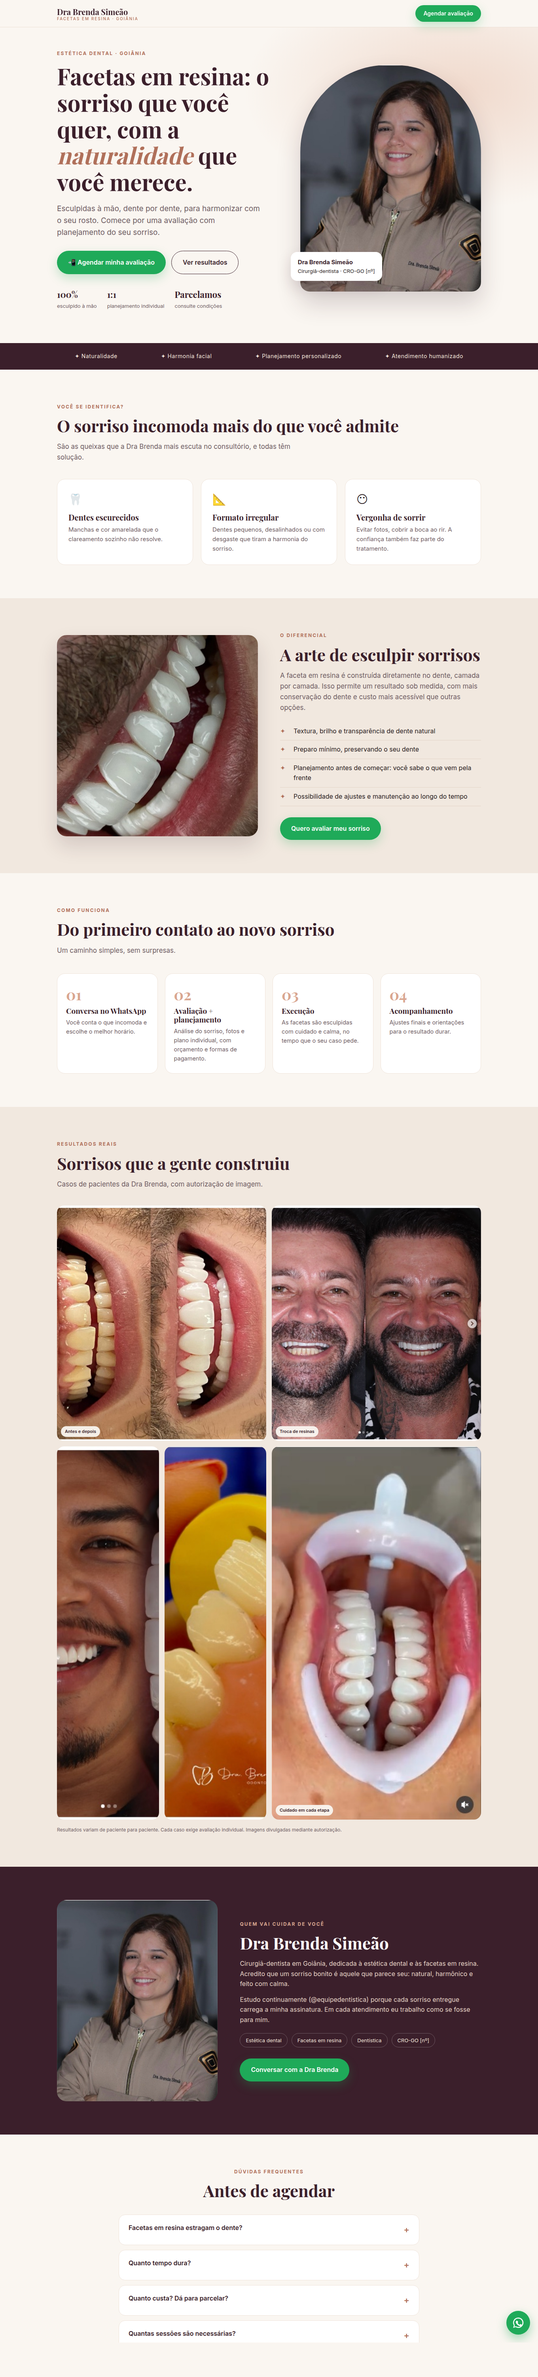
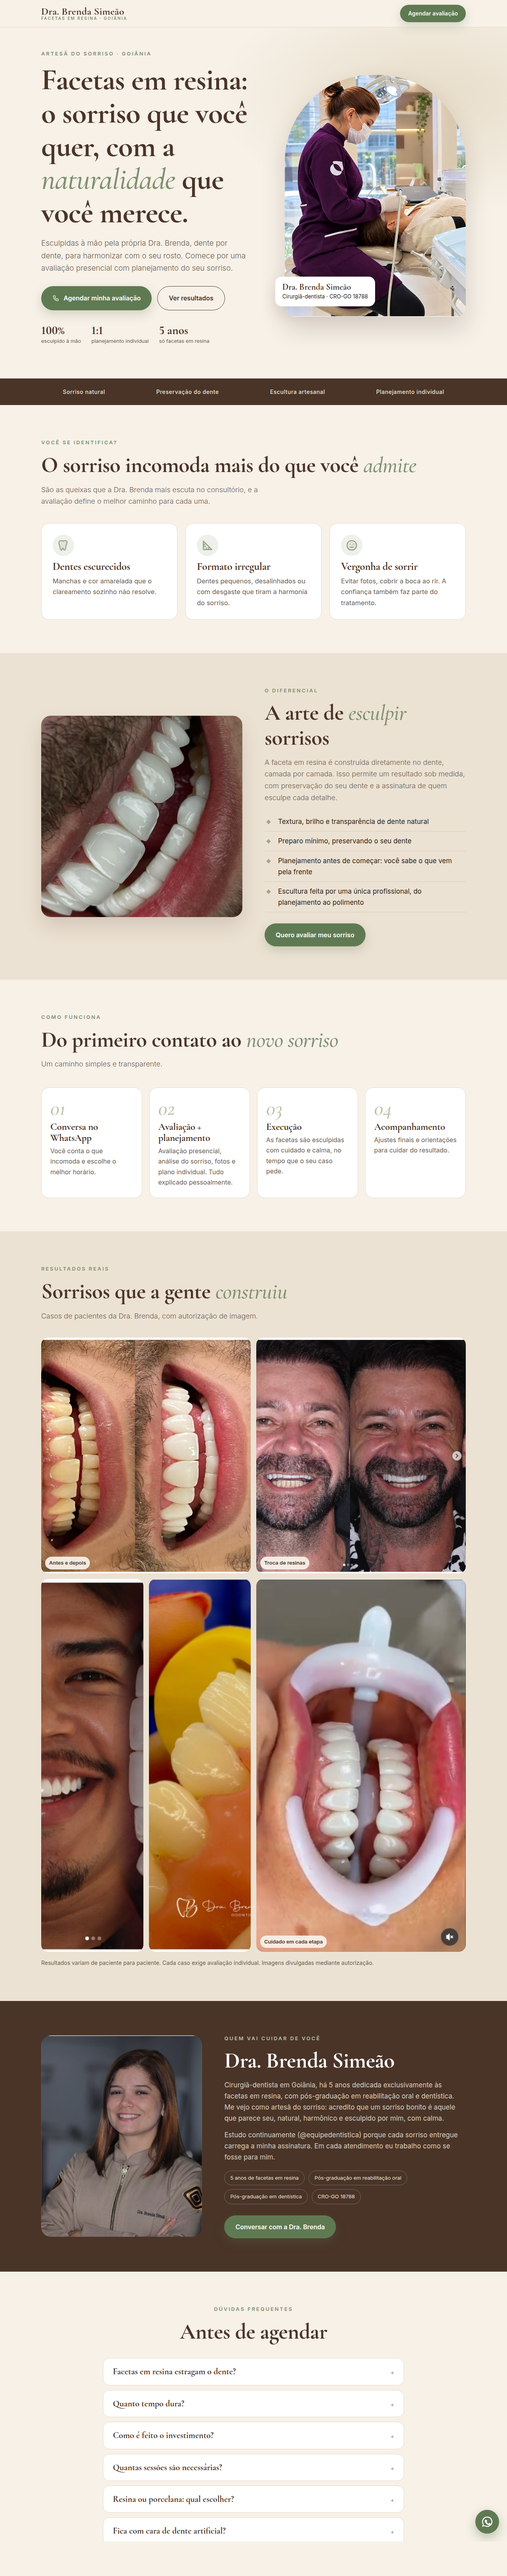
EXP-30: Interface Odontologia no endereco e rodape (constante unica), secao de avaliacoes com QR local, revisao CFO/CRO-GO

Changed region(s): [[0.0, 0.0, 1.0, 0.9973], [0.9375, 0.9662, 1.0, 0.9973]]

diff --git a/lp/index.html b/lp/index.html
@@ -3,6 +3,10 @@
 <meta name="description" content="Facetas em resina esculpidas à mão para um sorriso natural e harmônico. Agende sua avaliação com a Dra. Brenda Simeão em Goiânia.">
 <!-- TRACKING: preencher PIXEL_ID e CAPI_ENDPOINT na publicação. Spec em ../tracking.md e ../dossie-estrategico-funil.md (seção 4) -->
 <script>
+// LOCAL_NOME: nome do local de atendimento, divulgado com autorizacao da Dra. (28/10/2026), "por enquanto". Trocar SO aqui.
+window.LOCAL_NOME="Interface Odontologia";
+// GOOGLE_REVIEWS_URL: link de avaliacoes do Google Meu Negocio (preencher quando houver acesso; depois rodar tools/gen-qr.py com o mesmo link)
+window.GOOGLE_REVIEWS_URL="";
 window.PIXEL_ID="";window.CAPI_ENDPOINT="";// PIXEL_ID: id do Pixel (so numeros). CAPI_ENDPOINT: URL https do endpoint server-side (ver tracking.md)
 window.eid=()=>"e"+Date.now().toString(36)+Math.random().toString(36).slice(2,8);
 // Atribuicao: utm_*, fbclid, fbc, fbp e ref (codigo curto) guardados por sessao; nada de dado de saude
@@ -73,14 +77,14 @@ footer{background:#2a211a;color:#c9baa6;font-size:14px;padding:34px 0;text-align
 
 <div class="strip"><div class="w"><span>Sorriso natural</span><span>Preservação do dente</span><span>Escultura artesanal</span><span>Planejamento individual</span></div></div>
 
-<section><div class="w"><div class="eyebrow">Você se identifica?</div><h2>O sorriso incomoda mais do que você <em>admite</em></h2><p class="sub">São as queixas que a Dra. Brenda mais escuta no consultório, e todas têm solução.</p>
+<section><div class="w"><div class="eyebrow">Você se identifica?</div><h2>O sorriso incomoda mais do que você <em>admite</em></h2><p class="sub">São as queixas que a Dra. Brenda mais escuta no consultório, e a avaliação define o melhor caminho para cada uma.</p>
 <div class="pains"><div class="pain"><i><svg class="ic "><use href="#i-tooth"/></svg></i><h3>Dentes escurecidos</h3><p>Manchas e cor amarelada que o clareamento sozinho não resolve.</p></div><div class="pain"><i><svg class="ic "><use href="#i-angle"/></svg></i><h3>Formato irregular</h3><p>Dentes pequenos, desalinhados ou com desgaste que tiram a harmonia do sorriso.</p></div><div class="pain"><i><svg class="ic "><use href="#i-face"/></svg></i><h3>Vergonha de sorrir</h3><p>Evitar fotos, cobrir a boca ao rir. A confiança também faz parte do tratamento.</p></div></div></div></section>
 
 <section class="diff"><div class="w"><img src="assets/closeup.jpg" alt="Detalhe de facetas em resina"><div><div class="eyebrow">O diferencial</div><h2>A arte de <em>esculpir</em> sorrisos</h2><p class="sub">A faceta em resina é construída diretamente no dente, camada por camada. Isso permite um resultado sob medida, com preservação do seu dente e a assinatura de quem esculpe cada detalhe.</p>
 <ul class="ticks"><li>Textura, brilho e transparência de dente natural</li><li>Preparo mínimo, preservando o seu dente</li><li>Planejamento antes de começar: você sabe o que vem pela frente</li><li>Escultura feita por uma única profissional, do planejamento ao polimento</li></ul><div style="margin-top:28px"><a class="btn wa" href="#">Quero avaliar meu sorriso</a></div></div></div></section>
 
-<section id="como"><div class="w"><div class="eyebrow">Como funciona</div><h2>Do primeiro contato ao <em>novo sorriso</em></h2><p class="sub">Um caminho simples, sem surpresas.</p>
-<div class="steps"><div class="step"><h3>Conversa no WhatsApp</h3><p>Você conta o que incomoda e escolhe o melhor horário.</p></div><div class="step"><h3>Avaliação + planejamento</h3><p>Avaliação presencial, análise do sorriso, fotos e plano individual. Tudo explicado pessoalmente.</p></div><div class="step"><h3>Execução</h3><p>As facetas são esculpidas com cuidado e calma, no tempo que o seu caso pede.</p></div><div class="step"><h3>Acompanhamento</h3><p>Ajustes finais e orientações para o resultado durar.</p></div></div></div></section>
+<section id="como"><div class="w"><div class="eyebrow">Como funciona</div><h2>Do primeiro contato ao <em>novo sorriso</em></h2><p class="sub">Um caminho simples e transparente.</p>
+<div class="steps"><div class="step"><h3>Conversa no WhatsApp</h3><p>Você conta o que incomoda e escolhe o melhor horário.</p></div><div class="step"><h3>Avaliação + planejamento</h3><p>Avaliação presencial, análise do sorriso, fotos e plano individual. Tudo explicado pessoalmente.</p></div><div class="step"><h3>Execução</h3><p>As facetas são esculpidas com cuidado e calma, no tempo que o seu caso pede.</p></div><div class="step"><h3>Acompanhamento</h3><p>Ajustes finais e orientações para cuidar do resultado.</p></div></div></div></section>
 
 <section id="resultados" style="background:var(--sand)"><div class="w"><div class="eyebrow">Resultados reais</div><h2>Sorrisos que a gente <em>construiu</em></h2><p class="sub">Casos de pacientes da Dra. Brenda, com autorização de imagem.</p>
 <div class="gal"><figure class="wide"><img src="assets/antes-depois-1.jpg" alt="Antes e depois de facetas em resina"><figcaption>Antes e depois</figcaption></figure><figure class="wide"><img src="assets/antes-depois-2.jpg" alt="Antes e depois de troca de resinas"><figcaption>Troca de resinas</figcaption></figure><figure><img src="assets/retrato-sorriso.jpg" alt="Sorriso com facetas"></figure><figure><img src="assets/preparo.jpg" alt="Detalhe técnico do preparo"></figure><figure class="wide"><img src="assets/atendimento.jpg" alt="Facetas durante o procedimento"><figcaption>Cuidado em cada etapa</figcaption></figure></div>
@@ -96,8 +100,11 @@ footer{background:#2a211a;color:#c9baa6;font-size:14px;padding:34px 0;text-align
 <details><summary>Resina ou porcelana: qual escolher?</summary><p>Cada material tem indicações. A avaliação serve para entender qual faz mais sentido para o seu sorriso e o seu momento.</p></details>
 <details><summary>Fica com cara de dente artificial?</summary><p>Não deve ficar. A escultura é feita à mão, com cor, textura e brilho pensados para o seu rosto. Por isso o resultado busca ser natural, sem o aspecto de dente "de chiclete".</p></details><details><summary>A avaliação é presencial?</summary><p>Sim. A avaliação é particular e presencial, é nela que a Dra. Brenda analisa seu caso e explica o plano completo.</p></details></div></div></section>
 
-<section class="cta" id="agendar"><div class="w"><div><div class="eyebrow" style="color:var(--rose2)">Próximo passo</div><h2>Agende sua avaliação pelo <em style="color:var(--rose2)">WhatsApp</em></h2><p>Conte um pouco do que incomoda no seu sorriso e a equipe retorna com carinho para combinar o melhor horário da sua avaliação presencial.</p><!-- PENDÊNCIA: nome do local de atendimento a confirmar com a Dra. Brenda (não divulgar clínica parceira) -->
-<div class="loc"><span><svg class="ic "><use href="#i-pin"/></svg> Rua 22, nº 318, Setor Oeste, Goiânia – GO<br>Na rua do bar do Celsinho<br>Atendemos Goiânia, Aparecida de Goiânia, Goianira e Anápolis</span><span><svg class="ic "><use href="#i-clock"/></svg> Atendimento com horário agendado<br>Segunda: a partir das 13h<br>Terça: 8h às 12h<br>Sábado: o dia todo<br>Demais dias: sob agendamento</span></div></div>
+<section id="avaliacoes" style="background:var(--sand)"><div class="w" style="text-align:center"><div class="eyebrow">Avaliações</div><h2>O que dizem <em>pacientes</em></h2><p class="sub" style="margin:0 auto">Pacientes atendidos podem deixar sua opinião, se quiserem, no Google. A participação é voluntária e a opinião é livre.</p>
+<div id="rv" style="margin-top:30px;display:flex;flex-direction:column;align-items:center;gap:18px"><p id="rv-soon" class="note">As avaliações do Google estarão disponíveis em breve.</p><a id="rv-link" class="btn ghost" style="display:none" target="_blank" rel="noopener">Ver avaliações no Google</a><figure id="rv-qr" style="display:none;margin:0"><img id="rv-qr-img" alt="QR code para as avaliações no Google" width="180" height="180" style="background:#fff;padding:10px;border-radius:12px"><figcaption class="note">Aponte a câmera do celular para abrir</figcaption></figure></div></div></section>
+
+<section class="cta" id="agendar"><div class="w"><div><div class="eyebrow" style="color:var(--rose2)">Próximo passo</div><h2>Agende sua avaliação pelo <em style="color:var(--rose2)">WhatsApp</em></h2><p>Conte um pouco do que incomoda no seu sorriso e a equipe retorna com carinho para combinar o melhor horário da sua avaliação presencial.</p>
+<div class="loc"><span><svg class="ic "><use href="#i-pin"/></svg> <b data-local></b><br>Rua 22, nº 318, Setor Oeste, Goiânia – GO<br>Na rua do bar do Celsinho<br>Atendemos Goiânia, Aparecida de Goiânia, Goianira e Anápolis</span><span><svg class="ic "><use href="#i-clock"/></svg> Atendimento com horário agendado<br>Segunda: a partir das 13h<br>Terça: 8h às 12h<br>Sábado: o dia todo<br>Demais dias: sob agendamento</span></div></div>
 <form id="f"><h3>Quero avaliar meu sorriso</h3><small>Leva menos de 1 minuto.</small>
 <label>Seu nome</label><input name="n" required placeholder="Como podemos te chamar?">
 <label>O que mais incomoda no seu sorriso?</label><select name="q"><option>Cor dos dentes</option><option>Formato / tamanho</option><option>Dentes desalinhados</option><option>Restaurações antigas</option><option>Outro</option></select>
@@ -105,12 +112,14 @@ footer{background:#2a211a;color:#c9baa6;font-size:14px;padding:34px 0;text-align
 <label>Já fez algum tratamento estético antes?</label><select name="j"><option>Não</option><option>Sim, clareamento</option><option>Sim, facetas/lentes</option><option>Sim, outro</option></select>
 <button class="btn" type="submit"><svg class="ic "><use href="#i-phone"/></svg> Continuar no WhatsApp</button></form></div></section>
 
-<footer><div class="w"><p><b>Dra. Brenda Simeão</b> · Cirurgiã-dentista · CRO-GO 18788 · Goiânia – GO</p><p>Este conteúdo tem caráter informativo e não substitui consulta. Resultados variam de paciente para paciente. Imagens de pacientes divulgadas com autorização.</p><p>© 2026 Dra. Brenda Simeão. Política de privacidade (LGPD).</p></div></footer>
+<footer><div class="w"><p><b>Dra. Brenda Simeão</b> · Cirurgiã-dentista · CRO-GO 18788 · Goiânia – GO</p><p>Este conteúdo tem caráter informativo e não substitui consulta. Resultados variam de paciente para paciente. Imagens de pacientes divulgadas com autorização.</p><p><span data-local></span> · Rua 22, nº 318, Setor Oeste, Goiânia – GO</p><p>© 2026 Dra. Brenda Simeão. Política de privacidade (LGPD).</p></div></footer>
 <a class="fab wa" href="#" aria-label="WhatsApp"><svg viewBox="0 0 32 32"><path d="M16 3a13 13 0 0 0-11 19.9L3 29l6.300-2A13 13 0 1 0 16 3zm0 2.400a10.600 10.600 0 1 1-5.600 19.600l-.4-.2-3.700 1.100 1.200-3.600-.3-.4A10.600 10.600 0 0 1 16 5.400zm-3.900 5.300c-.3 0-.7.100-1 .5-.4.400-1.300 1.300-1.300 3.100s1.300 3.600 1.500 3.800c.2.300 2.600 4.100 6.400 5.600 3.200 1.200 3.800 1 4.500.9.700-.1 2.200-.9 2.500-1.800.3-.9.300-1.600.2-1.800-.1-.2-.3-.3-.7-.5l-2.300-1.100c-.3-.1-.6-.2-.8.200l-1 1.200c-.2.200-.4.300-.7.100-.4-.2-1.500-.5-2.800-1.700-1-.9-1.700-2-1.900-2.400-.2-.4 0-.6.200-.7l.5-.6c.2-.2.200-.4.300-.6.100-.2.100-.4 0-.6l-1-2.400c-.3-.6-.5-.5-.8-.5z"/></svg></a>
 <script>
 const WA="5562991980311"; // WhatsApp profissional (62) 99198-0311
 const go=m=>"https://wa.me/"+WA+"?text="+encodeURIComponent(m+"\n\nRef: "+ATTR.ref);// Ref = codigo curto; CRM cruza com o registro do lead no servidor
 document.querySelectorAll('a.wa').forEach(a=>{a.href=go("Olá, Dra. Brenda! Gostaria de mais informações sobre facetas em resina.");a.addEventListener('click',()=>track('Contact',{content_name:'cta_whatsapp'}))});
+document.querySelectorAll('[data-local]').forEach(e=>e.textContent=window.LOCAL_NOME);
+if(window.GOOGLE_REVIEWS_URL){const l=document.getElementById('rv-link');l.href=GOOGLE_REVIEWS_URL;l.style.display='';document.getElementById('rv-qr-img').src='assets/qr-avaliacoes.svg';document.getElementById('rv-qr').style.display='';document.getElementById('rv-soon').style.display='none'}
 track('PageView');
 let vc=0;const fire=()=>{if(vc)return;vc=1;track('ViewContent',{content_name:'lp_facetas_resina'})};
 setTimeout(fire,15000);addEventListener('scroll',()=>{if(scrollY/(document.body.scrollHeight-innerHeight)>.5)fire()},{passive:true});

diff --git a/tools/gen-qr.py b/tools/gen-qr.py
@@ -1,0 +1,9 @@
+#!/usr/bin/env python3
+"""Gera lp/assets/qr-avaliacoes.svg localmente. Uso: tools/gen-qr.py <link-google-meu-negocio>
+Depois preencher window.GOOGLE_REVIEWS_URL no topo de lp/index.html com o mesmo link."""
+import sys, qrcode, qrcode.image.svg
+if len(sys.argv) != 2 or not sys.argv[1].startswith("https://"):
+    sys.exit("uso: gen-qr.py https://...")
+img = qrcode.make(sys.argv[1], image_factory=qrcode.image.svg.SvgPathImage, box_size=10, border=2)
+img.save("lp/assets/qr-avaliacoes.svg")
+print("ok: lp/assets/qr-avaliacoes.svg")

diff --git a/revisao-cfo-cro-lp.md b/revisao-cfo-cro-lp.md
@@ -1,0 +1,27 @@
+# Revisão da LP contra o checklist CFO / CRO-GO (EXP-30, 28/10/2026)
+
+Referência: dossie-estrategico-funil.md, seção 1.3.
+
+## Corrigido na LP
+- "e todas têm solução" (queixas) -> "e a avaliação define o melhor caminho para cada uma" (promessa de resultado).
+- "Um caminho simples, sem surpresas" -> "simples e transparente".
+- "orientações para o resultado durar" -> "para cuidar do resultado" (garantia implícita de durabilidade).
+
+## Varredura limpa
+Sem preço, parcelamento, promoção, gratuidade, "especialista", "o melhor/único/garantido". A avaliação consta como particular e presencial.
+
+## Precisa de decisão do Guilherme
+1. Título do hero "o sorriso que você quer, com a naturalidade que você merece": tom de promessa leve. Sugestão: "um sorriso pensado para você, com naturalidade".
+2. "Preparo mínimo, preservando o seu dente" e "Preservação do dente" (faixa): afirmação absoluta; o FAQ já diz "em geral". Sugestão: "Técnica conservadora".
+3. "exclusivamente às facetas em resina" / "5 anos só facetas": a galeria mostra "troca de resinas". Confirmar que o texto é fiel.
+4. Seção "Resultados reais" com antes e depois: exige TCLE específico de divulgação por caso (checklist 1.2). Confirmar que os dois casos têm TCLE antes de publicar.
+5. Imagens "Facetas durante o procedimento" (atendimento.jpg) e "Detalhe técnico do preparo" (preparo.jpg): checklist proíbe procedimento em tecido biológico. Conferir se há campo aberto/sangue.
+6. "Na rua do bar do Celsinho" no bloco de endereço: informal e referencia terceiro. Sugestão: remover.
+7. Nome do local: autorizado "por enquanto". Se a Dra. mudar de endereço, trocar window.LOCAL_NOME e o endereço.
+8. Avaliações Google: a seção não traz depoimentos inventados. Não oferecer brinde ou vantagem por avaliação (política do Google e CFO).
+
+## schema.org
+A LP não tinha bloco LocalBusiness/Dentist; não foi criado, conforme o pedido ("se já existir"). Se quiser, adicionar após o domínio definitivo.
+
+## Avaliações (QR)
+Preencher window.GOOGLE_REVIEWS_URL no topo de lp/index.html e rodar `tools/gen-qr.py <link>` (gera lp/assets/qr-avaliacoes.svg localmente). Enquanto a URL está vazia, a seção mostra "em breve" sem botão nem QR.
